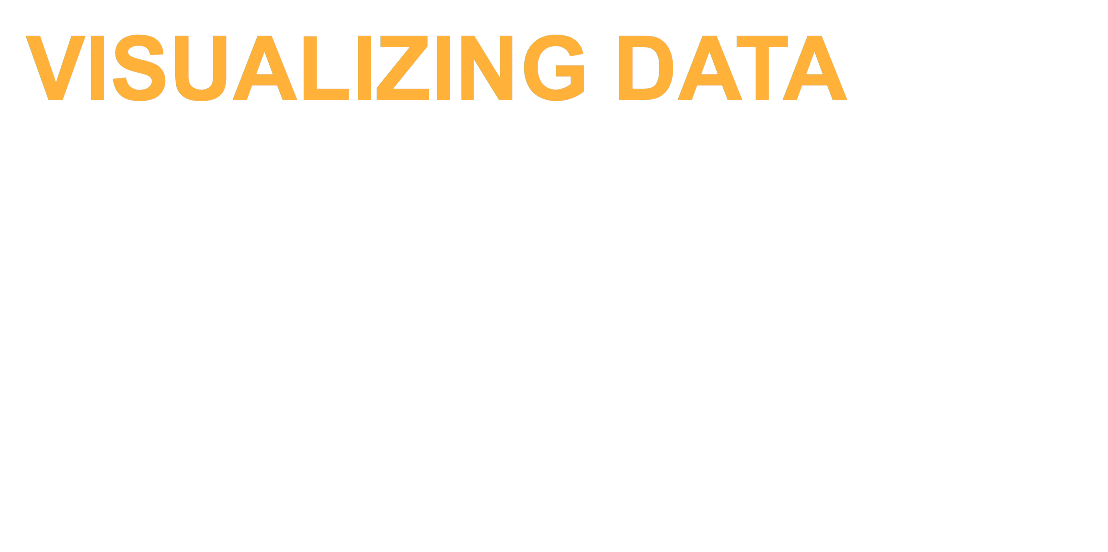
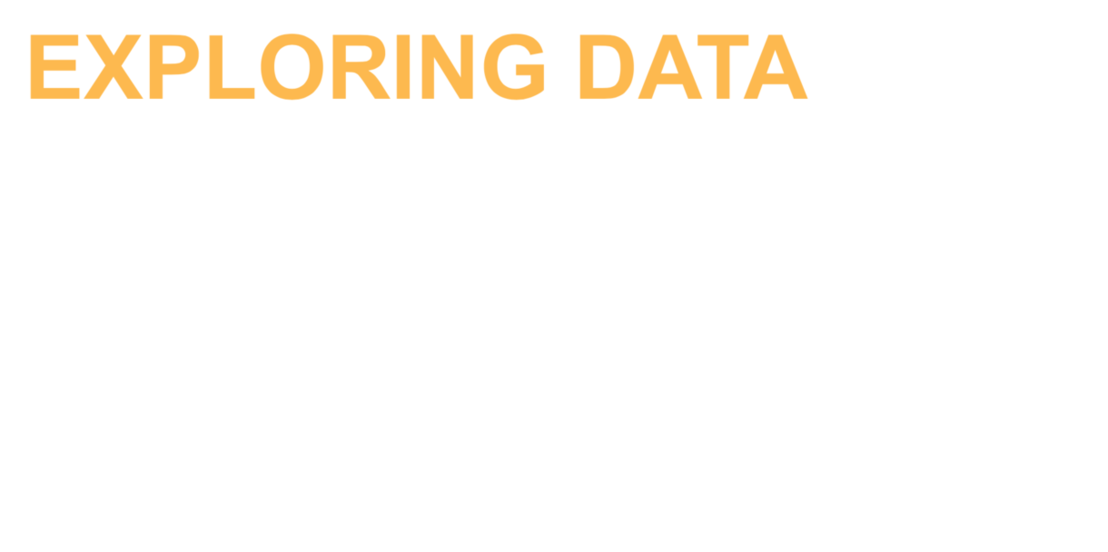
fixed sidemenu

Changed region(s): [[0.0, 0.0616, 0.7671, 0.1848]]

diff --git a/index.html b/index.html
@@ -57,6 +57,8 @@
                 <br>
                 <h1 class="big-title">Thinking With Data <span>An Intuitive Approach to Data Science</span></h1>
                 <p class="title-desc">A free platform to learn how to gain insights from data.</p>
+                <br>
+                <a href="lessons.html" class="lesson-redirect">See Lessons</a>
             </div>
         </div>
         
@@ -108,16 +110,16 @@
                                         <div class="service-content-holder">
                                             <div class="service-title">DATA MODELING</div>
                                             <div class="service-content">
-                                                Learn how to implement machine learing models using powerful Python libraries as well as how to gain insight from your models.  <br />
+                                                Learn how to implement machine learing models using powerful Python libraries as well as how to gain insight.  <br />
                                             </div>
                                         </div>
                                     </div>
                                     <div class="service-holder ">
                                         <img src="demo-images/icon_04.png" alt="">
                                         <div class="service-content-holder">
-                                            <div class="service-title">DATA STORYTELLING</div>
+                                            <div class="service-title">QUERYING DATA</div>
                                             <div class="service-content">
-                                                Most importantly, learn how to take your analysis, understand it, and develop a comprehensive presentation using Visualization software like Tableau in order to make better data-driven decisions. <br />
+                                                Learn the basics of SQL and writing queries. <br />
                                             </div>
                                         </div>
                                     </div>
@@ -144,9 +146,9 @@
                                     <div class="service-holder ">
                                         <img src="demo-images/icon_02.png" alt="">
                                         <div class="service-content-holder">
-                                            <div class="service-title">TABLEAU</div>
+                                            <div class="service-title">MODELS</div>
                                             <div class="service-content">
-                                                Learn how to create meaningful visualizations using Tableau.<br />
+                                                Learn how to implement and understand models commonly used in fitting data.<br />
                                             </div>
                                         </div>
                                     </div>
@@ -155,7 +157,7 @@
                                         <div class="service-content-holder">
                                             <div class="service-title">LIBRARIES</div>
                                             <div class="service-content">
-                                                Learn how to use libraries commonly used by data scientists including pandas, numpy, sklean, matplotlib, and more. <br />
+                                                Learn how to use libraries commonly used in data analytics including pandas, numpy, sklean, matplotlib, and more. <br />
                                             </div>
                                         </div>
                                     </div>
@@ -220,7 +222,7 @@
                                             <img src="images/icon_post.svg" alt="">
                                         </p>
                                         <p class="portfolio-text">Data Modeling</p>
-                                        <p class="portfolio-sec-text">Learn how to implement various regression and classification models to gain insights from your data.</p>
+                                        <p class="portfolio-sec-text">Learn how to implement various regression and classification models.</p>
                                     </div>
                                 </div>
                             </a>
@@ -233,8 +235,8 @@
                                         <p class="portfolio-type">
                                             <img src="images/icon_post.svg" alt="">
                                         </p>
-                                        <p class="portfolio-text">Data Visualization</p>
-                                        <p class="portfolio-sec-text">Learn how to create powerful visualizations using tools like Tableau.</p>
+                                        <p class="portfolio-text">Data Exploration</p>
+                                        <p class="portfolio-sec-text">Learn how to gain insight from raw data and obtain key summary statistics.</p>
                                     </div>
                                 </div>
                             </a>

diff --git a/lessons.html b/lessons.html
@@ -22,6 +22,13 @@
         <!--[if lt IE 9]>
                 <script src="js/html5.js"></script>
         <![endif]-->
+
+        <style>
+            body {
+                background-color: #19134E;
+            }
+        </style>
+
         <script type="text/javascript">
             function toggleLessonbar(){
              document.getElementById("lessonbar").classList.toggle('active');
@@ -39,8 +46,7 @@
                     <ul class="main-menu sm sm-clean">
                         <li><a href="index.html#home">Home</a></li>
                         <li><a href="index.html#services">Outline</a></li>
-                        <li><a href="#lessonbanner">Lessons</a></li>
-                        <li><a href="index.html#contact">Contact</a></li>
+                        <li><a href="#lessonbanner">Lessons</a></li>                    
                     </ul>
                 </nav>
             </div>
@@ -55,7 +61,7 @@
                     <button class="lesson-button" onclick="toggleLessonbar()"> View Lessons </button>
                 </div>
             </div>
-            
+            <div></div>
             <div id="lessonbar">
                 <div class="menu-button" onclick="toggleLessonbar()">
                     <a>
@@ -65,13 +71,30 @@
                     </a>
                 </div>    
                 <ul>
+                    <li><h1 class="lesson-topic">Queries</h1></li>
+                    <li>Temp</li>
+                    <li>Temp</li>
+                    <li>Temp</li>
+                    <li><h1 class="lesson-topic">Data Preparation</h1></li>
+                    <li>Temp</li>
+                    <li>Temp</li>
+                    <li>Temp</li>
+                    <li><h1 class="lesson-topic">Data Exploration</h1></li>
+                    <li>Temp</li>
+                    <li>Temp</li>
+                    <li>Temp</li>
+                    <li><h1 class="lesson-topic">Data Modeling</h1></li>
                     <li>Temp</li>
                     <li>Temp</li>
                     <li>Temp</li>
                 </ul>
             </div>
 
-            
+            <div id="lesson-post" class="post_background">
+                    
+                <p class="portfolio-sec-text">Learn to use Python for aggregating, cleansing, and exploring data.</p>
+                
+            </div>
 
             <footer>
                 <div class="footer content-1170 center-relative">

diff --git a/style.css b/style.css
@@ -323,6 +323,17 @@ h1.big-title
     width: 100%;
 }
 
+.lesson-redirect {
+    font: bold 16px Arial;
+    text-decoration: none;
+    background-color: #19134E;
+    color: #ffffff;
+    padding: 10px 20px 10px 20px;
+    border-top: 2px solid #CCCCCC;
+    border-right: 2px solid #CCCCCC;
+    border-bottom: 2px solid #CCCCCC;
+    border-left: 2px solid #CCCCCC;
+  }
 /* END HOME SECTION */
 
 
@@ -750,46 +761,6 @@ span.contact-form-not-valid-tip
 /* END CONTACT SECTION */
 
 
-/* FOOTER */
-
-footer
-{
-    background-color: #19134E;
-}
-
-.footer
-{
-    font-size: 16px;
-    line-height: 36px;
-    clear: both;
-    color: #5b5881;
-    text-align: center;    
-    padding: 100px 0;
-}
-
-.footer-left, .footer-right
-{
-    width: 810px;
-}
-
-.footer-right
-{
-    margin-left: 370px;
-}
-
-.footer a
-{
-    color: #5b5881;
-}
-
-.social-footer a 
-{
-    margin: 0 10px;
-    font-size: 20px;
-}
-
-/* END FOOTER */
-
 /* LESSONS */
 
 #lessonbar{
@@ -797,6 +768,7 @@ footer
     width: 250px;
     height: 100%;
     background: #19134E;
+    overflow-y: scroll;
     top: 64px;
     left: -250px;
     transition: all 500ms linear;
@@ -838,11 +810,72 @@ footer
   border-radius: 10px;
   font-size: 16px;
 }
+.post_background{
+    position: relative;
+    background-color: #ffffff;
+    left: 250px;
+    height: 2000px;
+}
 
 .lesson-button:hover {
     background-color: white;
     color: #19134E;
   }
+
+  h1.lesson-topic
+{
+    font-family: 'Montserrat', sans-serif;
+    font-size: 36px;
+    font-weight: 600;
+    line-height: 100%;
+    padding-top: 100px;
+    color: #fff;
+    letter-spacing: -1px;    
+    width: 95%;
+    margin-left: auto;
+    margin-right: auto;
+}
+
+/* FOOTER */
+
+footer
+{
+    background-color: #19134E;
+}
+
+.footer
+{
+    font-size: 16px;
+    line-height: 36px;
+    clear: both;
+    color: #5b5881;
+    text-align: center;    
+    padding: 100px 0;
+}
+
+.footer-left, .footer-right
+{
+    width: 810px;
+}
+
+.footer-right
+{
+    margin-left: 370px;
+}
+
+.footer a
+{
+    color: #5b5881;
+}
+
+.social-footer a 
+{
+    margin: 0 10px;
+    font-size: 20px;
+}
+
+/* END FOOTER */
+
 /* SINGLE PORTFOLIO PAGE */
 
 #portfolio-1
